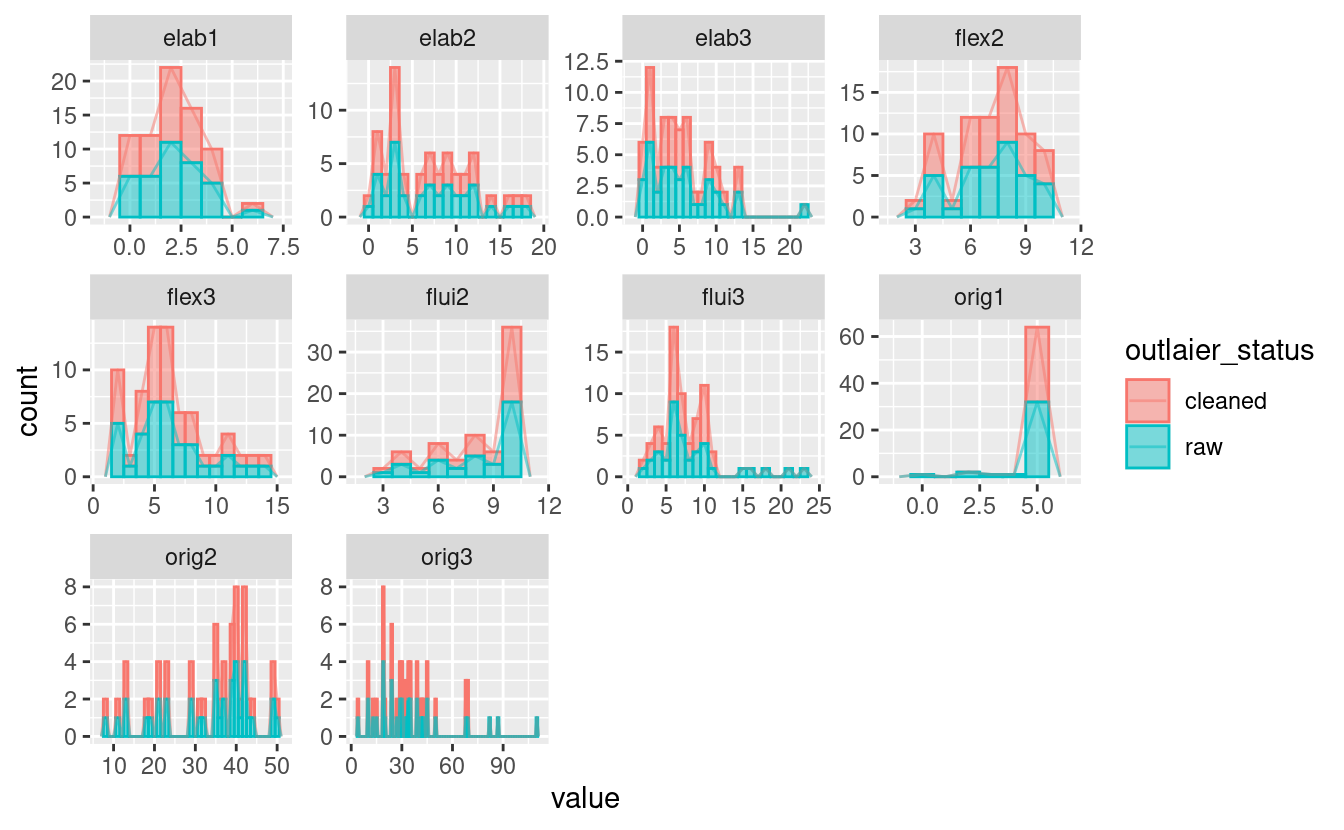
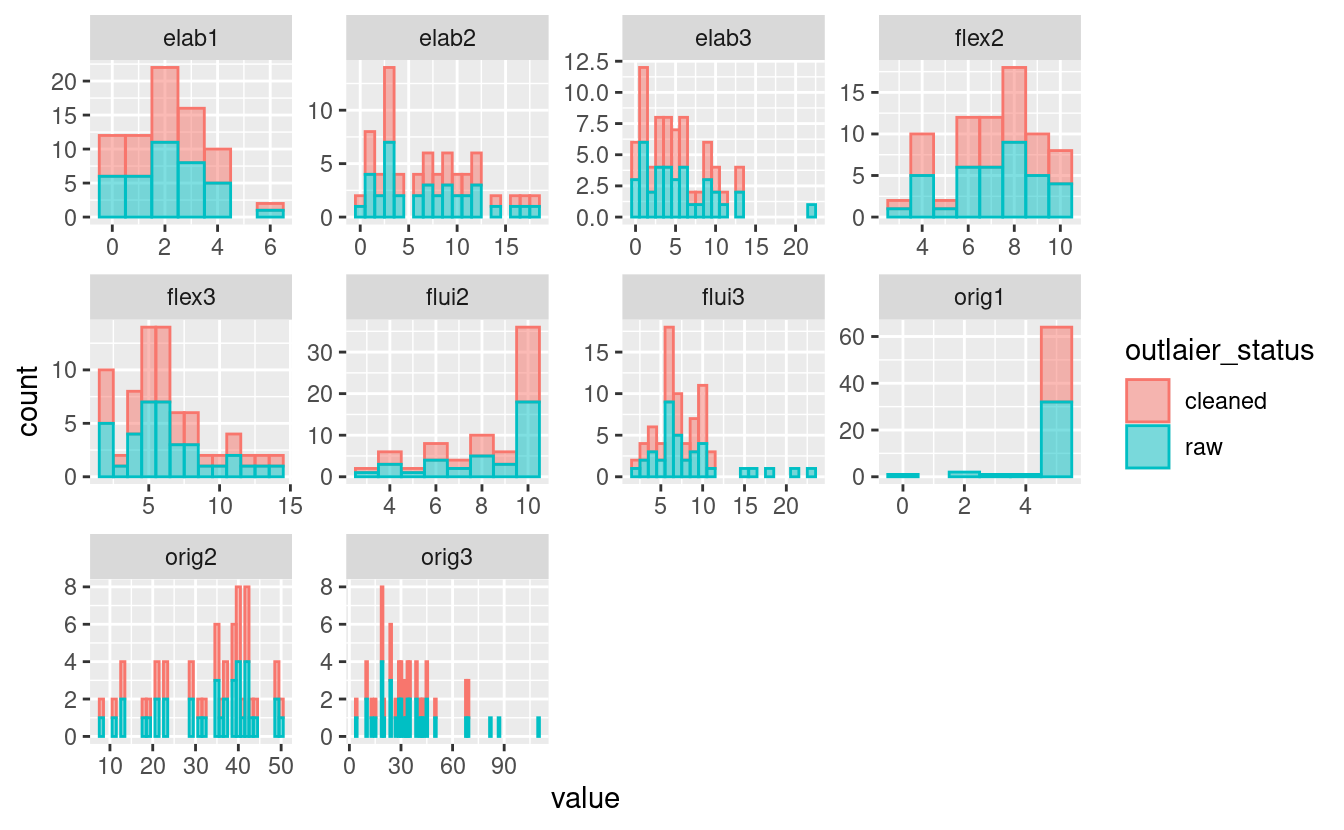
site update

diff --git a/docs/_site/2022/09/06/torrance-histogramas-y-frecuencias/index.html b/docs/_site/2022/09/06/torrance-histogramas-y-frecuencias/index.html
@@ -76,7 +76,7 @@
 <li>Cleaning changes the distribution</li>
 </ul>
 <div class="highlight">
-<p><img src="figs/torrance_raw_vs_cleaned_histogram_freq-1.png" width="700px" style="display: block; margin: auto;" /></p>
+<p><img src="figs/torrance_raw_vs_cleaned_histogram_freq-1.png" width="700px" style="display: block; margin: auto;" /><img src="figs/torrance_raw_vs_cleaned_histogram_freq-2.png" width="700px" style="display: block; margin: auto;" /></p>
 </div>
 
     </div>
